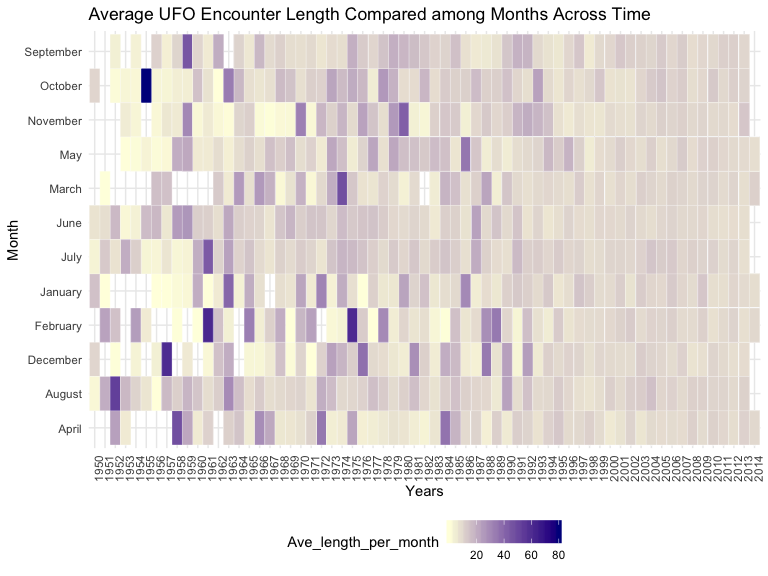
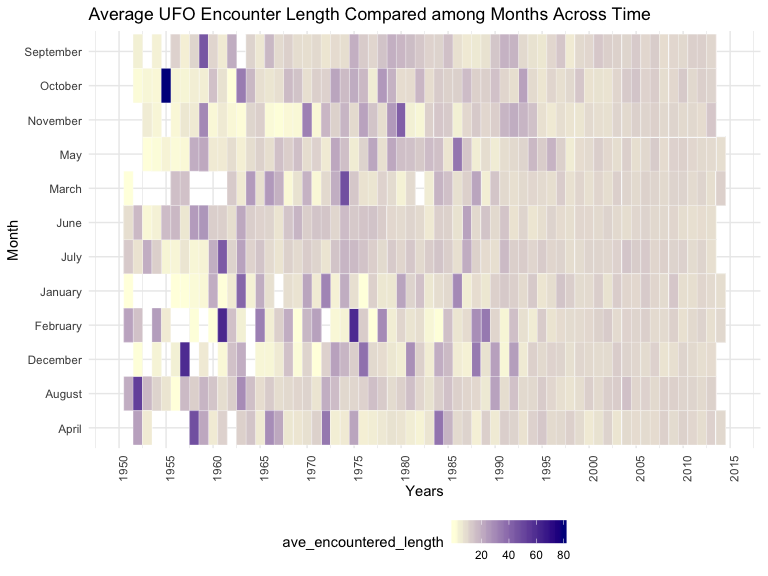
modification for label

diff --git a/visualization_-Keyi.md b/visualization_-Keyi.md
@@ -118,14 +118,19 @@ flare, hezagon, pyramid and round.
   ufo %>%
   filter(year >= 1950, encounter_length < 10000) %>%
   select(year, month, encounter_length) %>%
+  mutate(year = as.numeric(year))%>%
+  arrange(desc(month)) %>%
   mutate(month = month.name[as.numeric(month)]) %>%
   group_by(year,month) %>%
   mutate(
-  Ave_length_per_month = mean(encounter_length/60)) %>%
+  ave_encountered_length = mean(encounter_length/60)) %>%
   select(-encounter_length) %>%
   ggplot(aes(x = year, y = month)) +
-  geom_tile(aes(fill = Ave_length_per_month), colour = "white") +
+  geom_tile(aes(fill = ave_encountered_length), colour = "white") +
   scale_fill_gradient(low = "lightyellow", high = "darkblue") +
+  scale_x_continuous(name="Years", 
+                     breaks = c(1950,    1955,1960,1965,1970,1975,1980,1985,1990,1995,2000,2005,2010,2015
+                                ), limits=c (1950,2015))+
   labs(
     title = "Average UFO Encounter Length Compared among Months Across Time ",
     x = "Years",
